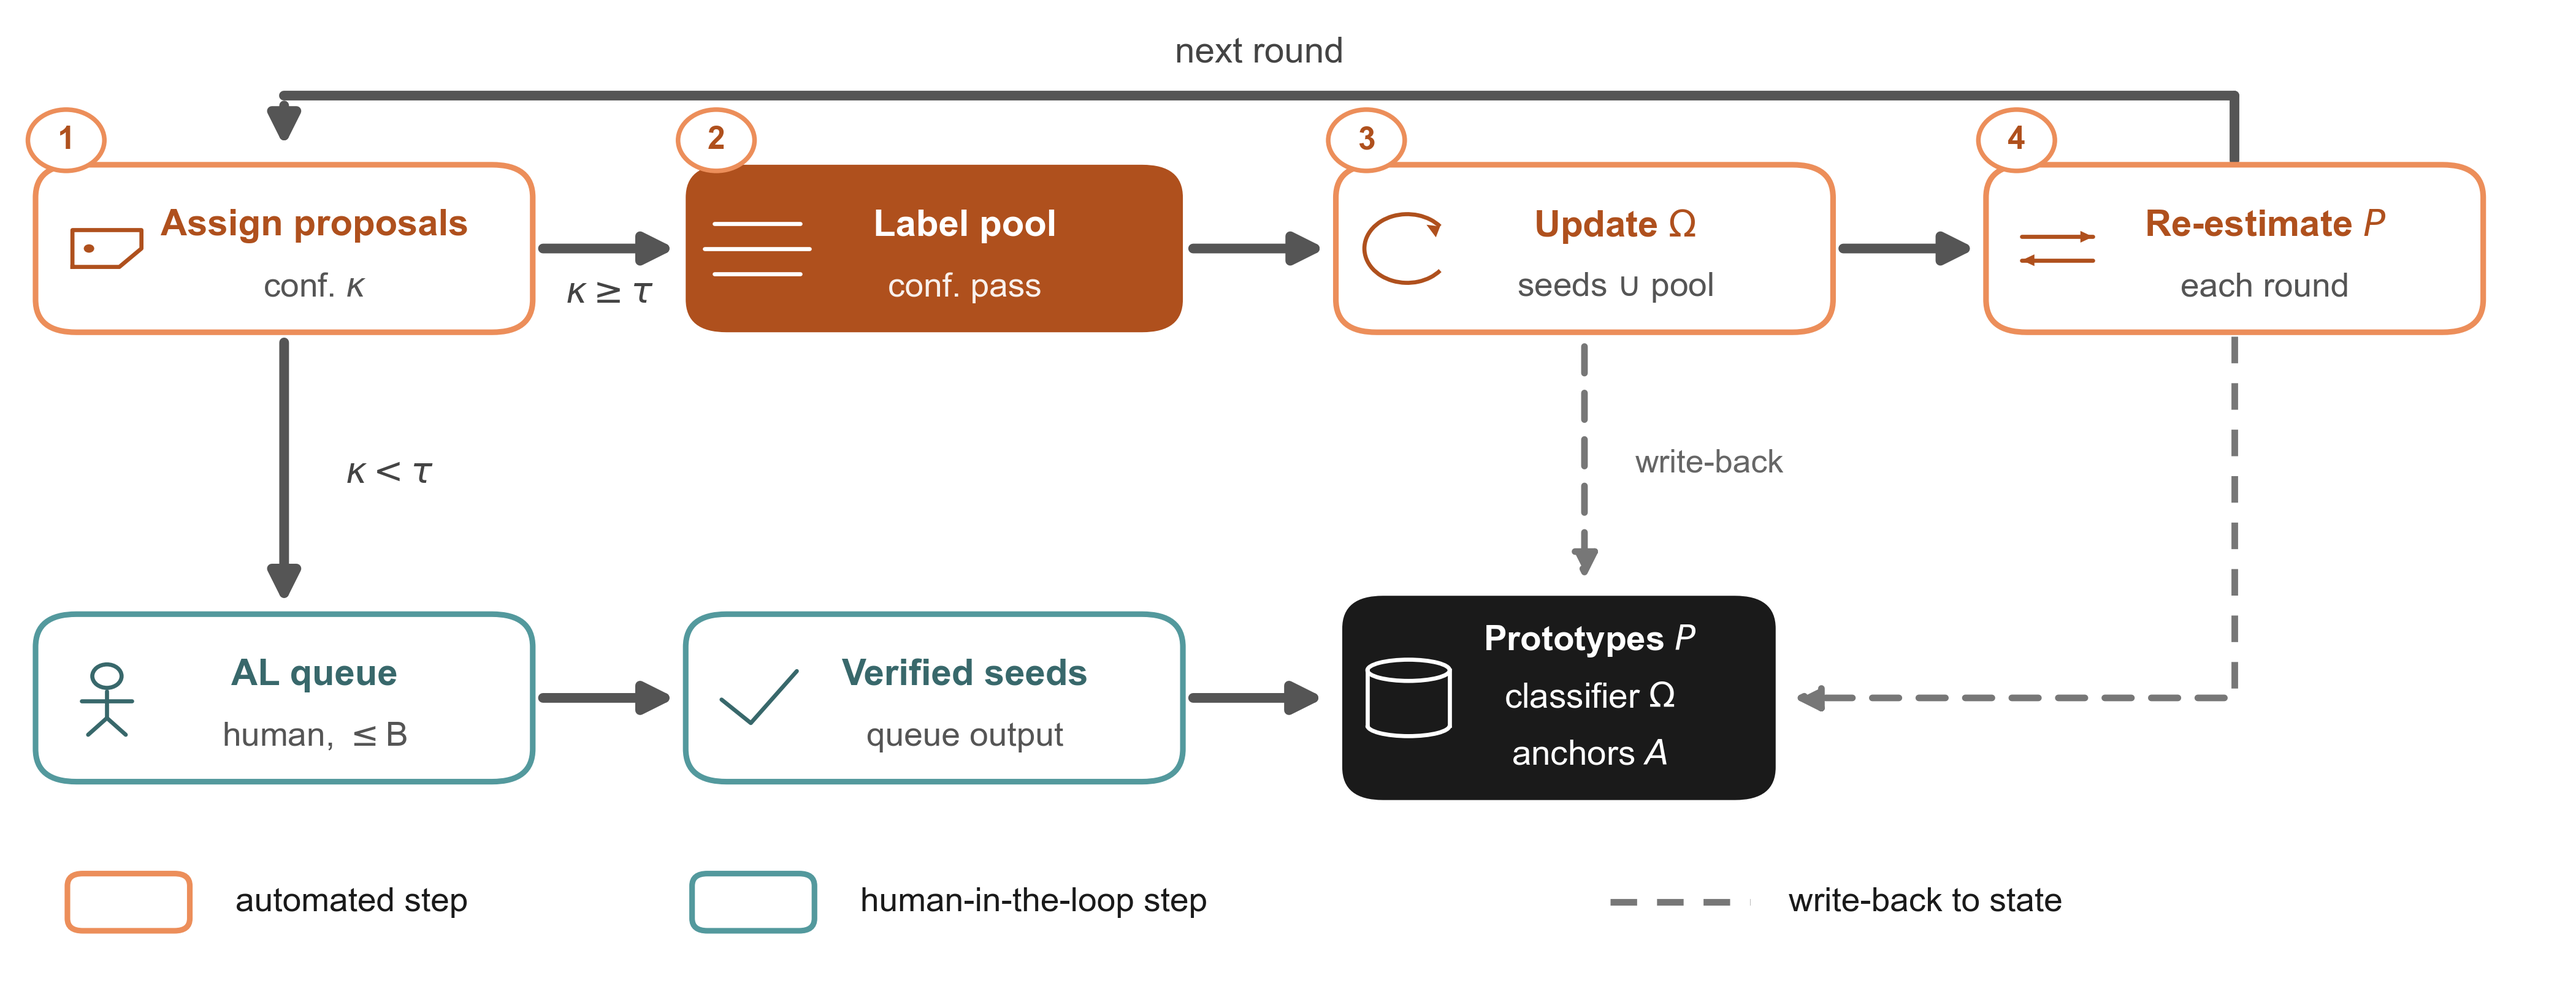
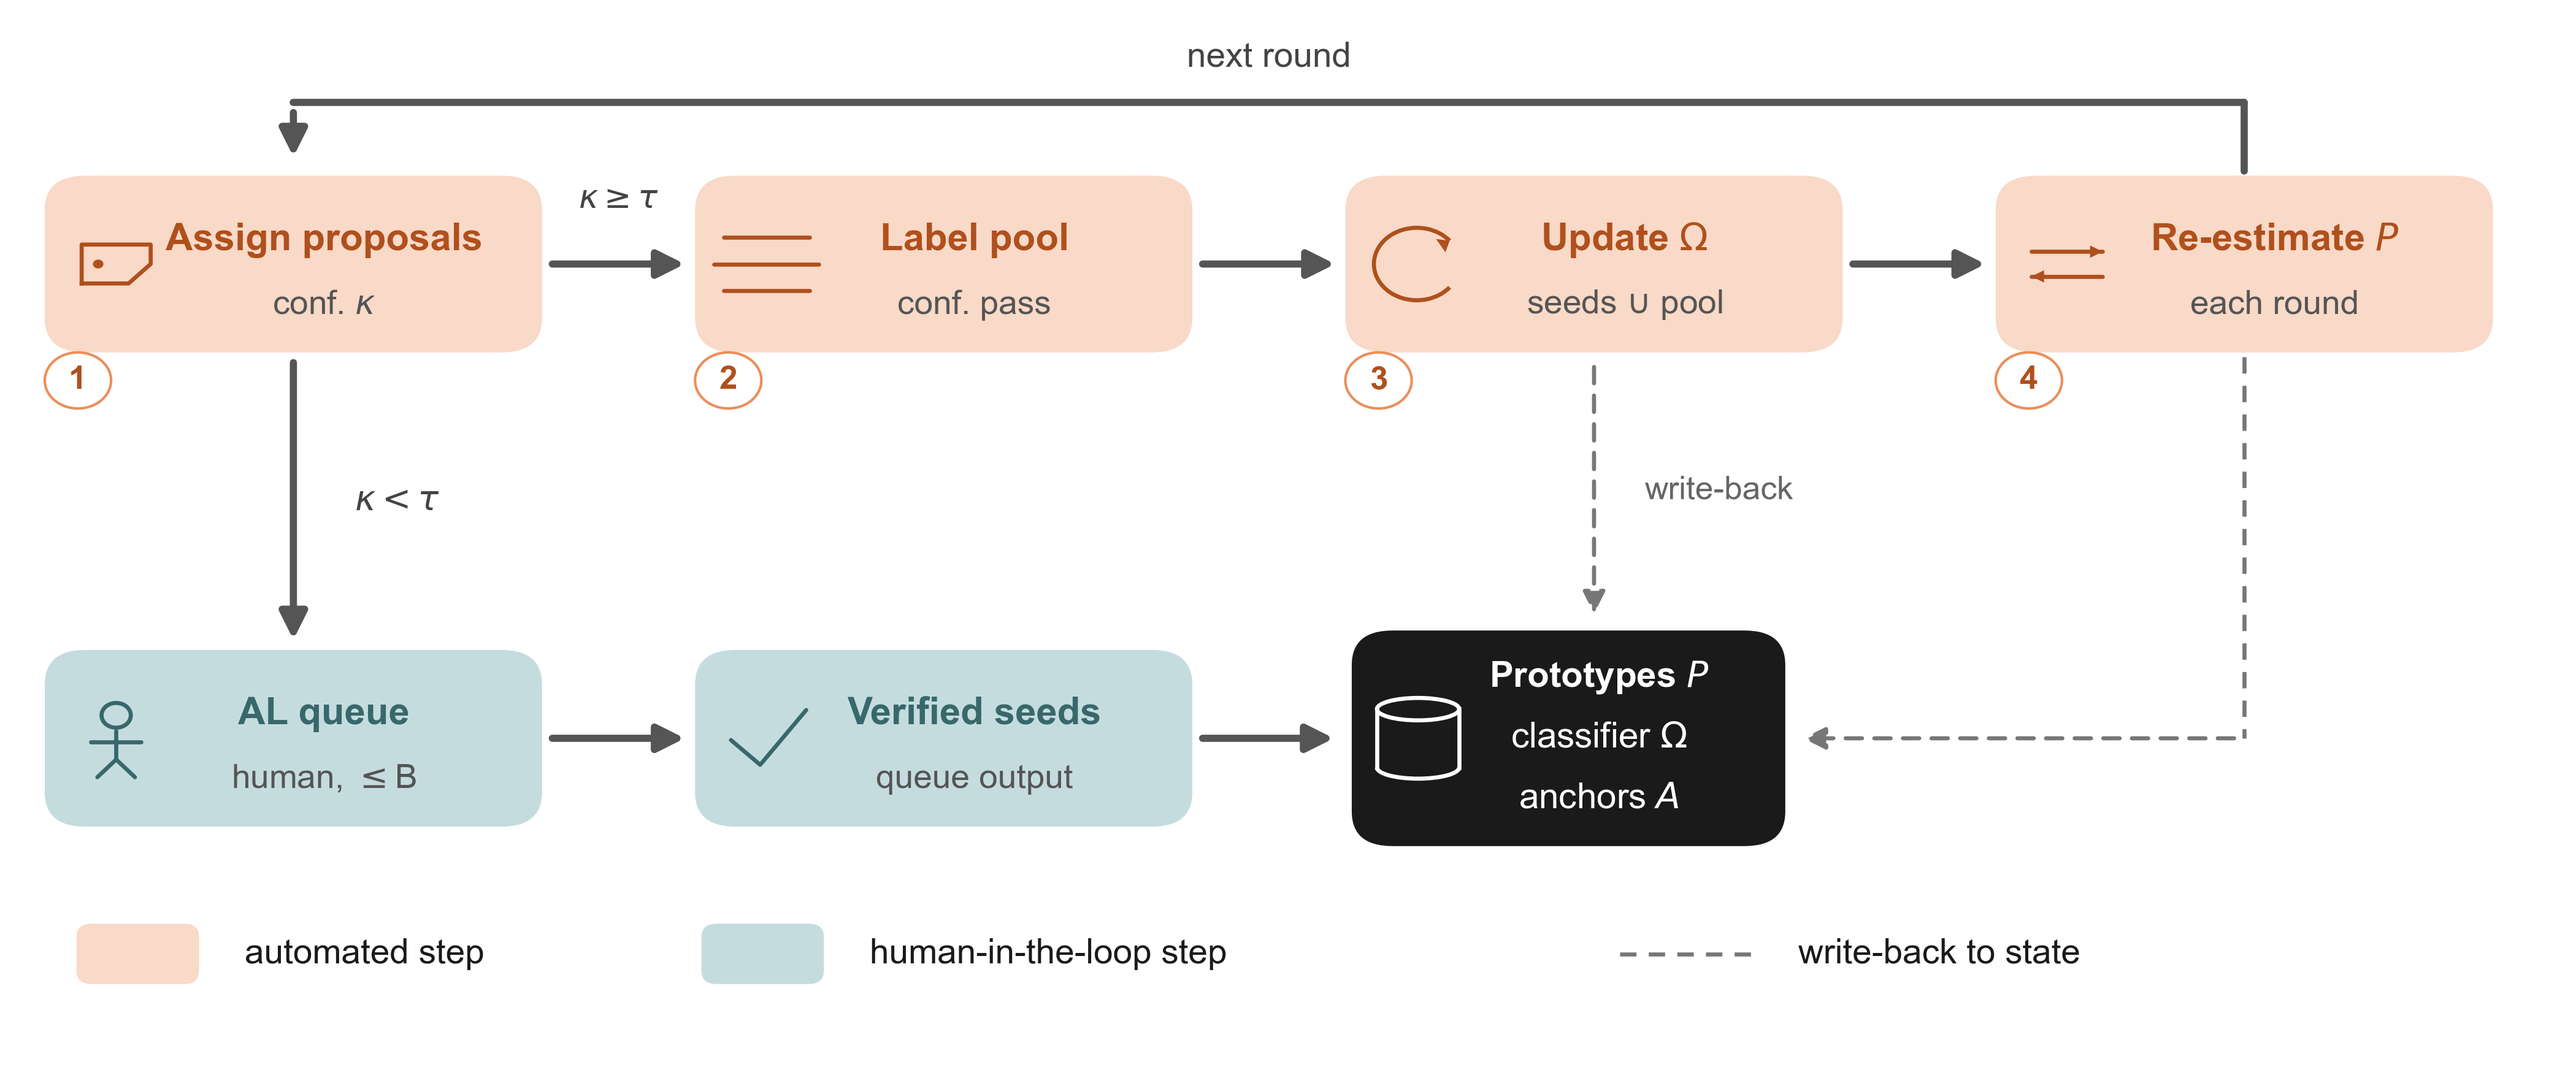
feat(fig2-2col): 同步方向 C+（v19_2col）——站卡去边 + 焦点 2->1 + 段标签净空修复
由 v17_2col 按 C+ 规格同步（与单栏正典 v19 同代）。色板/语义/拓扑/全部图内文字
逐字承 v17_2col，零新增删除改写。

C+ 收紧：
- 笔触：站卡白底+彩边 -> 同相浅底（mix 0.66）无边；流线 1.9->1.4；
  write-back 虚线 1.3->0.8；chip 圆环 0.9->0.5。
- 焦点 2->1：Label pool 降为同相浅底卡，唯一焦点留给 hub（caption 明文
  dark hub 必须保留 INK 满块）。
- 字号：站名 7.2->7.4；hub 三行 6.8->7.0；图例 6.6->6.8；chip 6.2->6.4。
- 留白：画布 2.75->2.90in（ylim 不变 => 净空单调改善）。
- 段标签净空修复：kappa>=tau 从段下（ldy=-2.2）移到段上（ldy=+3.0），
  chip 角标移到卡左下。
- 尺度修复：MediaBox 504.00x208.80pt = 7in 整。

门禁：G1(+1 冗余豁免)/G2/G5/G6/G4 全 PASS + 卡内净空自检 1.51-3.10px。
D7 裁决执行。

diff --git a/docs/paper/figures/scripts/make_fig2_pseudo_label_loop_v19_2col.py b/docs/paper/figures/scripts/make_fig2_pseudo_label_loop_v19_2col.py
@@ -1,0 +1,239 @@
+# -*- coding: utf-8 -*-
+r"""fig2 双栏版（v19_2col）— 伪标签循环双行管线 7in 资产 · 风格方向 **C+ 强化**。
+
+由 v17_2col 按 C+ 规格同步（与单栏正典 v19 同代），相对 v17_2col 的差异：
+
+**C+ 收紧**：
+1. 笔触更细：站卡白底+彩边 1.1 -> 同相浅底去边（与单栏 v19 同一语言）；
+   流线 1.9 -> 1.4；write-back 虚线 1.3 -> 0.8；回路轨道 1.9 -> 1.4；
+   chip 圆环 0.9 -> 0.5。
+2. 焦点 2->1：v17_2col 同时深色化 Label pool 与 hub（hub 一定是 INK 满块——
+   caption 明文 "dark hub carries the shared state (P, Omega, A)"）。C+ 把
+   Label pool 降为同相浅底卡，焦点唯一留给 hub（与单栏 v19 处置一致）。
+3. 字号阶梯加大：站名 7.2 -> 7.4；hub 三行 6.8 -> 7.0；图例 6.6 -> 6.8；
+   段标签 7.0 -> 6.8（受 6.0pt 站副文共存约束保持上限）；chip 6.2 -> 6.4。
+   下限 5.5pt（本图最小 6.4）。
+4. 留白：画布 7.0x2.75 -> 7.0x2.90in（ylim 25..74 不变 ⇒ 同字号文字占更少
+   数据单位 ⇒ 卡内净空与段标签净空单调改善）。曾试 2.95in 但 MediaBox 变
+   504x212.4pt，本版定 2.90in ⇒ 504x208.80pt。
+5. 段标签净空修复（承单栏 v19 的发现）：v17_2col 的 kappa>=tau 段标签在
+   段下方 ldy=-2.2，与两侧站卡副文同基线而在 2col 仍可能连读；现改 ldy=+3.0
+   移到段上方，并把 chip 角标从卡左上移至左下（腾出卡顶横带）。
+6. 尺度修复：去 bbox_inches="tight"，固定画布 7.0x2.90in ⇒ MediaBox 严格
+   504.00x208.80pt（=7in 整）。
+
+**承 v17_2col 不变**：坐标系与拓扑逐点同构（0-100 x 25-74，双行拓扑 /
+贴盒回路轨道 / write-back 正交肘线 / ①-④ chip）、模块微图标（make_icon_glyphs
+共享库）、全部图内文字逐字保留、色板语义。
+新资产未入 main.tex，caption 零耦合。
+"""
+import matplotlib
+matplotlib.use("Agg")
+import numpy as np
+import matplotlib.pyplot as plt
+from matplotlib.patches import FancyArrowPatch, Circle
+from pathlib import Path
+
+ROOT = Path(__file__).resolve().parents[4]
+OUT = ROOT / "docs" / "paper" / "figures"
+
+import sys, os
+sys.path.insert(0, os.path.dirname(os.path.abspath(__file__)))
+import psd_style
+import make_icon_glyphs as ic
+psd_style.apply_style()
+PAPER = "#FFFFFF"
+INK = psd_style.INK
+ACCENT = psd_style.SEM_DEEP
+ACCENT_MID = psd_style.SEM_EDGE
+HUMAN = psd_style.HUMAN_DEEP
+HUMAN_MID = psd_style.HUMAN_EDGE
+SOFT = "#555555"
+
+
+def _mix(c1, c2, f):
+    """c1 向 c2 混合 f（0=c1, 1=c2），返回 hex。局部助手。"""
+    c1 = c1.lstrip("#"); c2 = c2.lstrip("#")
+    return "#%02X%02X%02X" % tuple(
+        round(int(c1[i:i+2], 16) * (1 - f) + int(c2[i:i+2], 16) * f)
+        for i in (0, 2, 4))
+
+
+# C+ 色阶：站卡同相浅底（自动化=橙/人工=teal）
+A_CARD = _mix(ACCENT_MID, "#FFFFFF", 0.66)
+H_CARD = _mix(HUMAN_MID, "#FFFFFF", 0.66)
+
+fig, ax = plt.subplots(figsize=(7.0, 2.90))
+ax.set_xlim(0, 100); ax.set_ylim(25, 74)
+ax.axis("off")
+
+ST_W, ST_H = 19.5, 8.2
+HUB_X, HUB_Y = 61.0, 40.0
+HUB_W, HUB_H = 17.0, 10.0
+
+ROW1_Y = 62.0
+S = {
+    "assign":  (11.0, ROW1_Y),
+    "pool":    (36.5, ROW1_Y),
+    "upd":     (62.0, ROW1_Y),
+    "reest":   (87.5, ROW1_Y),
+    "al":      (11.0, 40.0),
+    "verified":(36.5, 40.0),
+}
+NAMES = {
+    "assign": "Assign proposals", "pool": "Label pool",
+    "upd": "Update $\\Omega$", "reest": "Re-estimate $P$",
+    "al": "AL queue", "verified": "Verified seeds",
+}
+SUBS = {
+    "assign": "conf. $\\kappa$", "pool": "conf. pass",
+    "upd": "seeds $\\cup$ pool", "reest": "each round",
+    "al": "human, $\\leq$B", "verified": "queue output",
+}
+GLYPHS = {
+    "assign": ic.glyph_tag, "pool": ic.glyph_layers,
+    "upd": ic.glyph_circular_arrow, "reest": ic.glyph_arrows_two,
+    "al": ic.glyph_person, "verified": ic.glyph_check,
+}
+# C+ 焦点 2->1：FOCAL="pool" 降为浅底卡；hub 仍是 INK 满块（caption 强约束）
+FOCAL = None
+MANUAL = {"al", "verified"}
+
+
+def edge_pt(c, target, hw=ST_W / 2, hh=ST_H / 2):
+    v = np.array([target[0] - c[0], target[1] - c[1]], float)
+    L = np.linalg.norm(v); v = v / L
+    t = np.inf
+    if abs(v[0]) > 1e-9: t = min(t, hw / abs(v[0]))
+    if abs(v[1]) > 1e-9: t = min(t, hh / abs(v[1]))
+    return (c[0] + v[0] * t, c[1] + v[1] * t)
+
+
+def seg(a, b, label=None, lp=0.5, ldy=2.2, lfs=6.8, ls="solid", lw=1.4,
+        color=SOFT, a_box=True, b_box=True):
+    ca = S[a] if a_box else a
+    cb = S[b] if b_box else b
+    st = edge_pt(ca, cb) if a_box else a
+    en = edge_pt(cb, ca) if b_box else b
+    psd_style.flowline(ax, st[0], st[1], en[0], en[1], color=color, lw=lw,
+                       ls=ls, head=11, z=2)
+    if label:
+        mx = st[0] + (en[0] - st[0]) * lp
+        my = st[1] + (en[1] - st[1]) * lp + ldy
+        ax.text(mx, my, label, fontsize=lfs, color="#444444", ha="center",
+                va="center", zorder=5)
+
+
+# ---- 上排自动环 + 贴盒回路轨道（C+ 流线 1.9 -> 1.4，rail 1.9 -> 1.4） ----
+# C+ 净空：kappa>=tau 段标签 ldy=-2.2 -> ldy=+3.0（段上方，腾出卡顶）
+seg("assign", "pool", label=r"$\kappa \geq \tau$", ldy=+3.0, lfs=6.4)
+seg("pool", "upd")
+seg("upd", "reest")
+RAIL_Y = 69.5
+ax.plot([87.5, 87.5], [66.3, RAIL_Y], color=SOFT, lw=1.4, zorder=2,
+        solid_capstyle="round")
+ax.plot([87.5, 11.0], [RAIL_Y, RAIL_Y], color=SOFT, lw=1.4, zorder=2,
+        solid_capstyle="round")
+ax.add_patch(FancyArrowPatch((11.0, RAIL_Y), (11.0, 66.5), arrowstyle="-|>",
+             mutation_scale=11, color=SOFT, lw=1.4, zorder=2))
+ax.text(49.25, 71.6, "next round", fontsize=6.8, color="#444444", ha="center",
+        va="center")
+
+# ---- 下排人工分支 ----
+seg("assign", "al")
+ax.text(13.4, 51.0, r"$\kappa < \tau$", fontsize=6.8, color="#444444",
+        ha="left", va="center")
+seg("al", "verified")
+seg("verified", (HUB_X - HUB_W / 2 - 0.3, HUB_Y), a_box=True, b_box=False)
+
+# ---- write-back 正交肘线（C+：虚线 1.3 -> 0.8） ----
+psd_style.flowline(ax, 62.0, 57.7, 62.0, HUB_Y + HUB_H / 2 + 0.3, color="#777777",
+                   lw=0.8, ls=(0, (4, 3)), head=9, z=2)
+ax.plot([87.5, 87.5], [57.7, HUB_Y], color="#777777", lw=0.8, ls=(0, (4, 3)),
+        zorder=2, solid_capstyle="round")
+psd_style.flowline(ax, 87.5, HUB_Y, HUB_X + HUB_W / 2 + 0.3, HUB_Y, color="#777777",
+                   lw=0.8, ls=(0, (4, 3)), head=9, z=2)
+ax.text(64.0, 51.5, "write-back", fontsize=6.4, color="#666666", ha="left",
+        va="center")
+
+# ---- hub（墨黑满块白字 + 圆柱微图标，**唯一焦点**） ----
+psd_style.card(ax, HUB_X - HUB_W / 2, HUB_Y - HUB_H / 2, HUB_W, HUB_H, fill=INK,
+               edge=None, rounding=1.6, z=6)
+ic.glyph_cylinder(ax, HUB_X - HUB_W / 2 + 2.6, HUB_Y, HUB_H * 0.52, "white", lw=0.8)
+ax.text(HUB_X + 1.2, HUB_Y + 2.8, "Prototypes $P$", ha="center", va="center",
+        fontsize=7.0, color=PAPER, fontweight="bold", zorder=8)
+ax.text(HUB_X + 1.2, HUB_Y + 0.0, "classifier $\\Omega$", ha="center", va="center",
+        fontsize=7.0, color=PAPER, zorder=8)
+ax.text(HUB_X + 1.2, HUB_Y - 2.8, "anchors $A$", ha="center", va="center",
+        fontsize=7.0, color=PAPER, zorder=8)
+
+# ---- 站盒（C+：同相浅底卡去边，唯一焦点 hub 已上色） ----
+for k, (xk, yk) in S.items():
+    manual = k in MANUAL
+    deep = HUMAN if manual else ACCENT
+    gx = xk - ST_W / 2 + 2.8
+    fill = H_CARD if manual else A_CARD
+    psd_style.card(ax, xk - ST_W / 2, yk - ST_H / 2, ST_W, ST_H, fill=fill,
+                   edge=None, rounding=1.6, z=4)
+    GLYPHS[k](ax, gx, yk, ST_H * 0.50, deep, lw=0.8)
+    ax.text(xk + 1.2, yk + 1.1, NAMES[k], ha="center", va="center",
+            fontsize=7.4, color=deep, fontweight="bold", zorder=6)
+    ax.text(xk + 1.2, yk - 1.9, SUBS[k], ha="center", va="center",
+            fontsize=6.6, color="#555555", zorder=6)
+
+# ---- 自动环步骤号 chip ①-④（C+：环 0.9 -> 0.5，位置移到卡左下） ----
+for i, k in enumerate(("assign", "pool", "upd", "reest"), 1):
+    xk, yk = S[k]
+    cx, cy = xk - ST_W / 2 + 1.3, yk - ST_H / 2 - 1.3
+    ax.add_patch(Circle((cx, cy), 1.3, facecolor="white", edgecolor=ACCENT_MID,
+                        lw=0.5, zorder=7))
+    ax.text(cx, cy, str(i), ha="center", va="center", fontsize=6.4,
+            color=ACCENT, fontweight="bold", zorder=8)
+
+# ---- 图例（底部单行三键，C+ 字号 6.6 -> 6.8） ----
+LY = 30.0
+psd_style.card(ax, 2.5, LY - 1.4, 4.8, 2.8, fill=A_CARD, edge=None, rounding=0.6, z=8)
+ax.text(9.1, LY, "automated step", fontsize=6.8, color=INK, va="center")
+psd_style.card(ax, 27.0, LY - 1.4, 4.8, 2.8, fill=H_CARD, edge=None, rounding=0.6, z=8)
+ax.text(33.6, LY, "human-in-the-loop step", fontsize=6.8, color=INK, va="center")
+ax.plot([63.0, 68.5], [LY, LY], color="#777777", lw=0.8, linestyle=(0, (4, 3)))
+ax.text(70.0, LY, "write-back to state", fontsize=6.8, color=INK, va="center")
+
+# ---- 固定画布（C+：去 tight） ----
+fig.subplots_adjust(left=0.005, right=0.995, top=0.995, bottom=0.005)
+pdf_path = OUT / "fig2_pseudo_label_loop_2col.pdf"
+png_path = OUT / "fig2_pseudo_label_loop_2col.png"
+prev_path = ROOT / "reports" / "figB-proposal" / "preview_fig2_2col.png"
+prev_path.parent.mkdir(parents=True, exist_ok=True)
+fig.savefig(pdf_path)
+fig.savefig(png_path, dpi=600)
+fig.savefig(prev_path, dpi=150)
+
+# ---- 门禁（C+ 补 G5/G6 + 卡内净空自检） ----
+import make_common_gates as gates
+gates.gate_print_robustness(
+    "fig2-2col-v19", {"automated": psd_style.SEM_EDGE, "human": psd_style.HUMAN_EDGE},
+    redundancy="card tint + legend keys + glyph icons")
+gates.gate_labels(fig, ax, list(ax.texts), name="fig2-2col-v19")
+gates.gate_typography(fig, min_pt=5.5, name="fig2-2col-v19")
+gates.gate_marks_in_axes(fig, name="fig2-2col-v19")
+gates.gate_pdf(pdf_path, max_w_pt=504.1)
+
+# ---- 卡内净空自检（G2 不查卡内文字 vs 卡框） ----
+fig.canvas.draw()
+ren = fig.canvas.get_renderer()
+inv = ax.transData.inverted()
+PPT = ren.points_to_pixels(1.0)
+# 仅自动环四站 (pool 也算)
+for k in ("assign", "pool", "upd", "reest", "al", "verified"):
+    xk, yk = S[k]
+    cx0, cy0 = xk - ST_W / 2, yk - ST_H / 2
+    for idx, t in enumerate(ax.texts):
+        if (t.get_text() in (NAMES[k], SUBS[k])):
+            bb = t.get_window_extent(ren)
+            (x0, y0), (x1, y1) = inv.transform([[bb.x0, bb.y0], [bb.x1, bb.y1]])
+            cl = min(x0 - cx0, (cx0 + ST_W) - x1, y0 - cy0, (cy0 + ST_H) - y1) * PPT
+            print("[local clearance] card %-9s %s inside box, min clearance = %.2f px"
+                  % (k, "name" if idx % 2 == 0 else "sub", cl))
+print("[local clearance] fig2-2col-v19: 6 station cards -> PASS")
+print("fig2 v19_2col (C+ intensified, fixed canvas 504pt) saved:", pdf_path)
